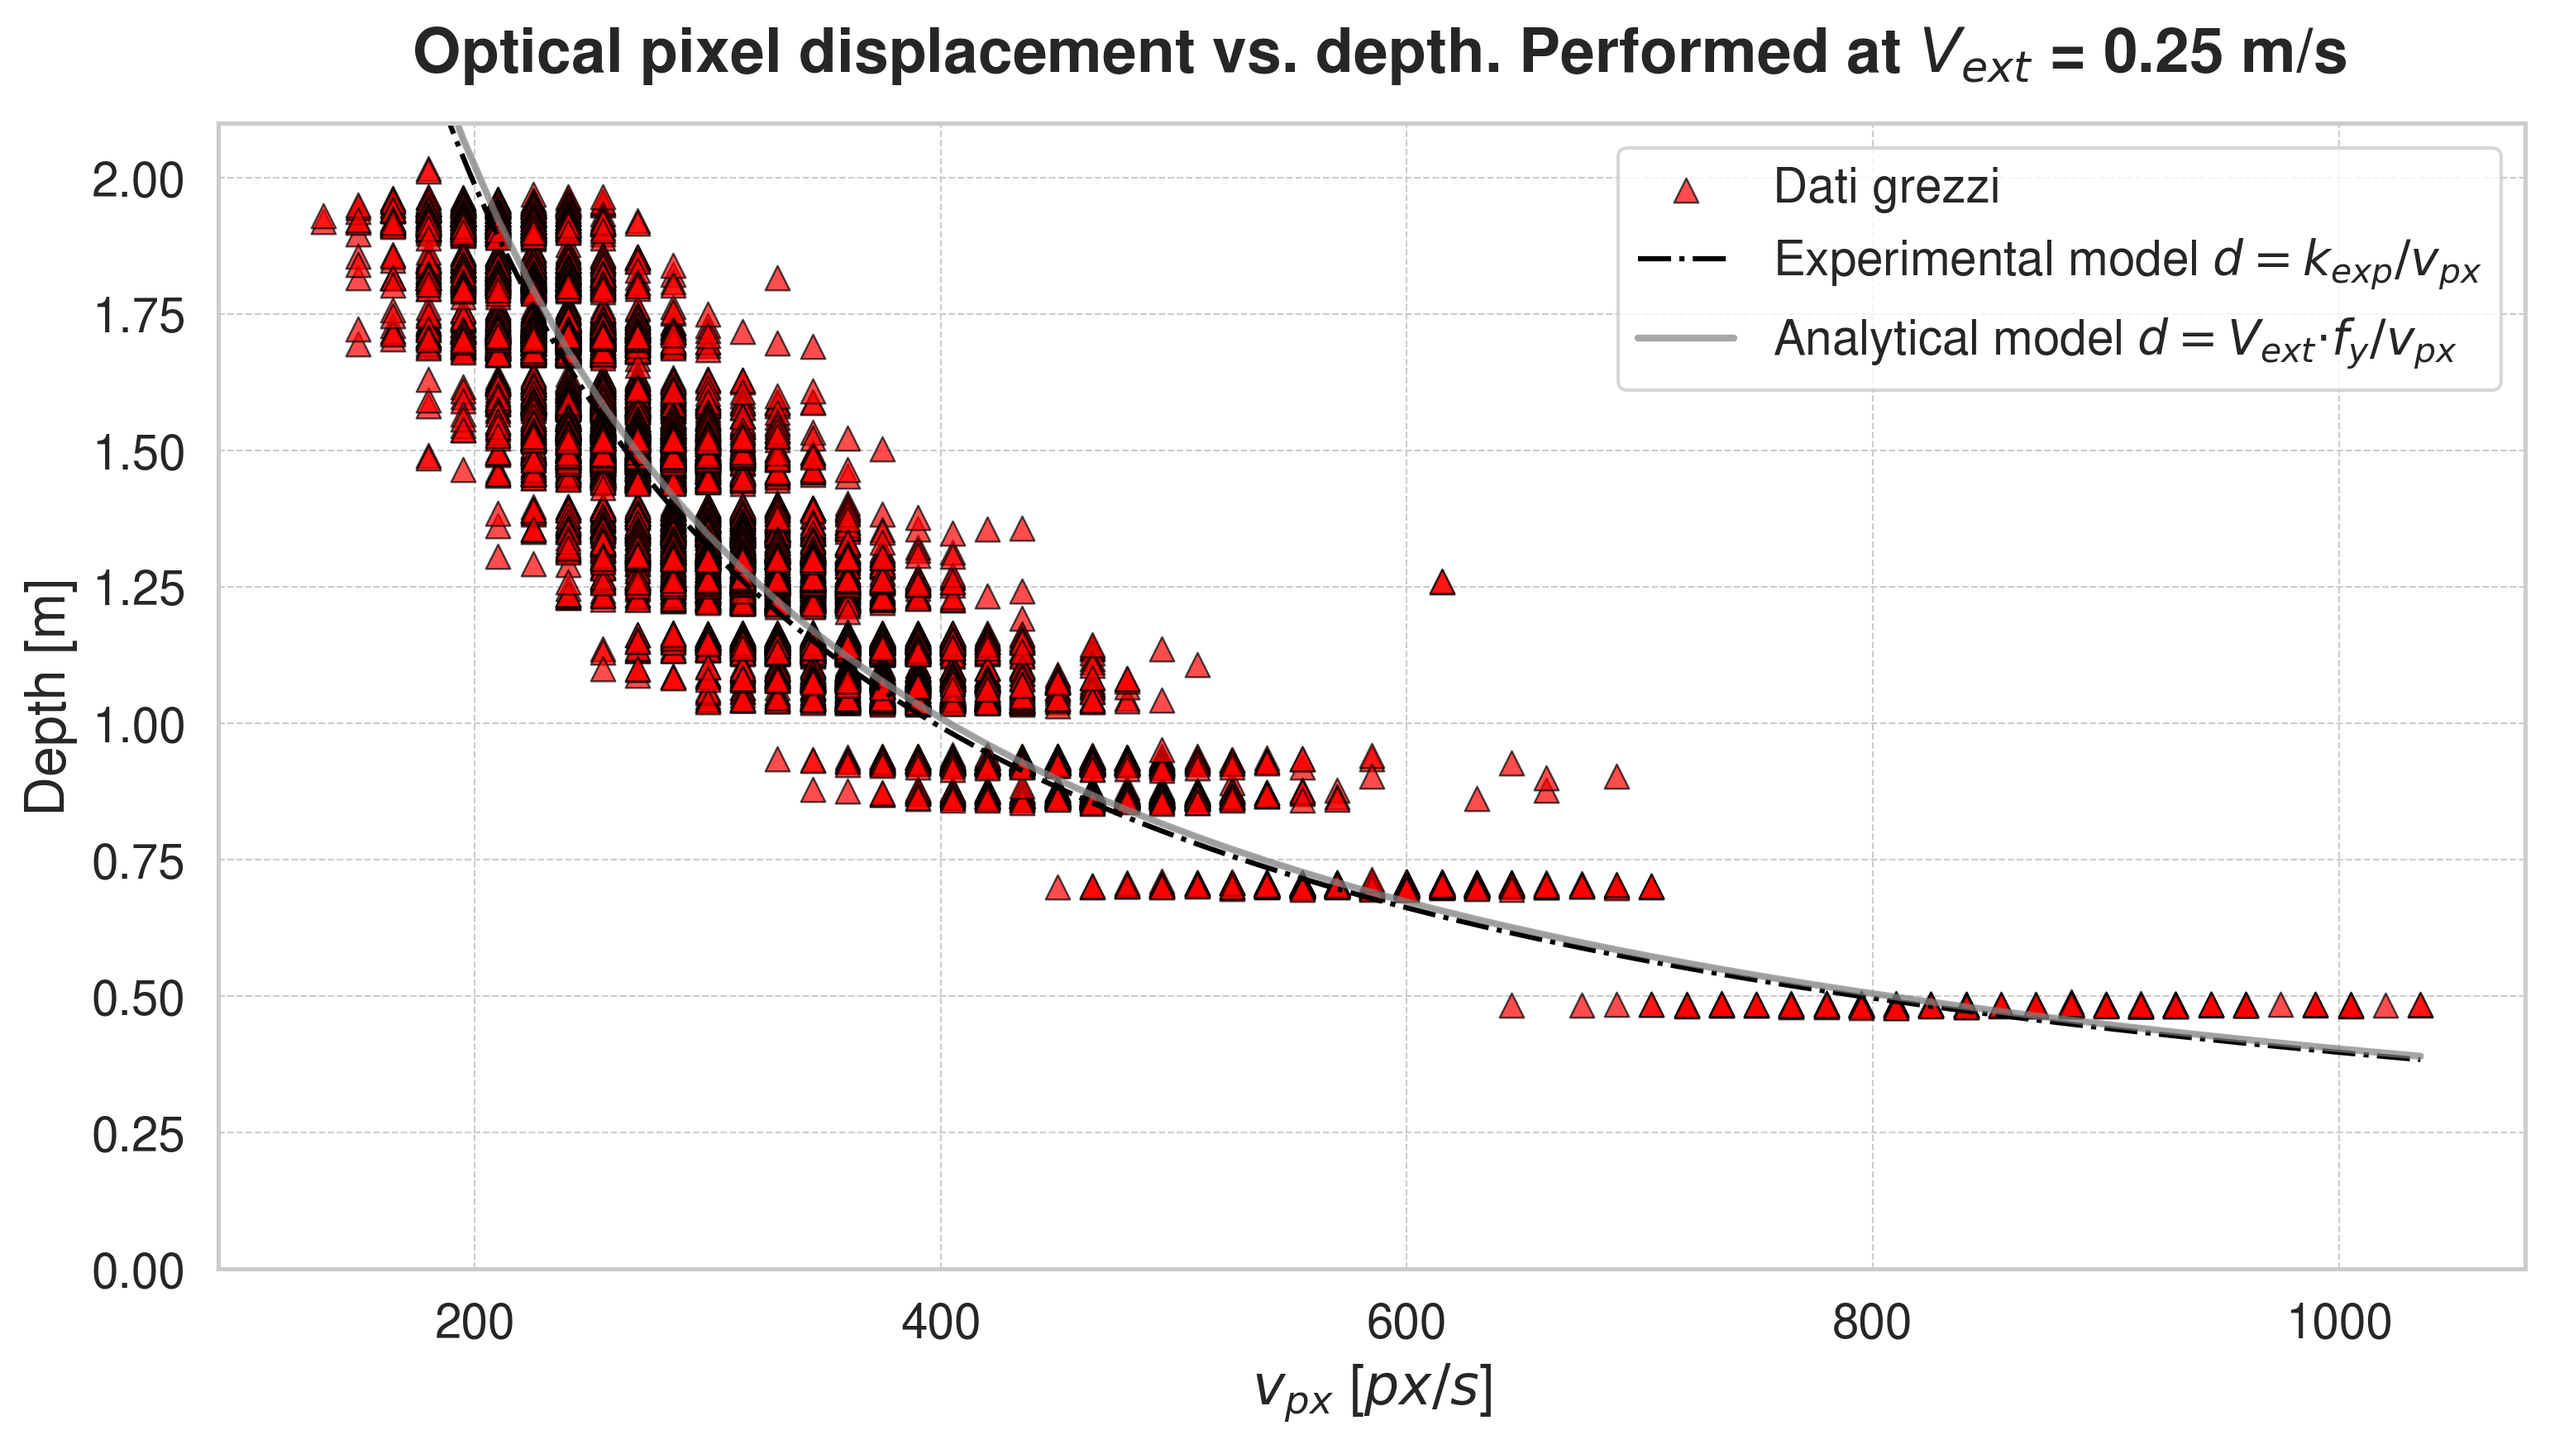
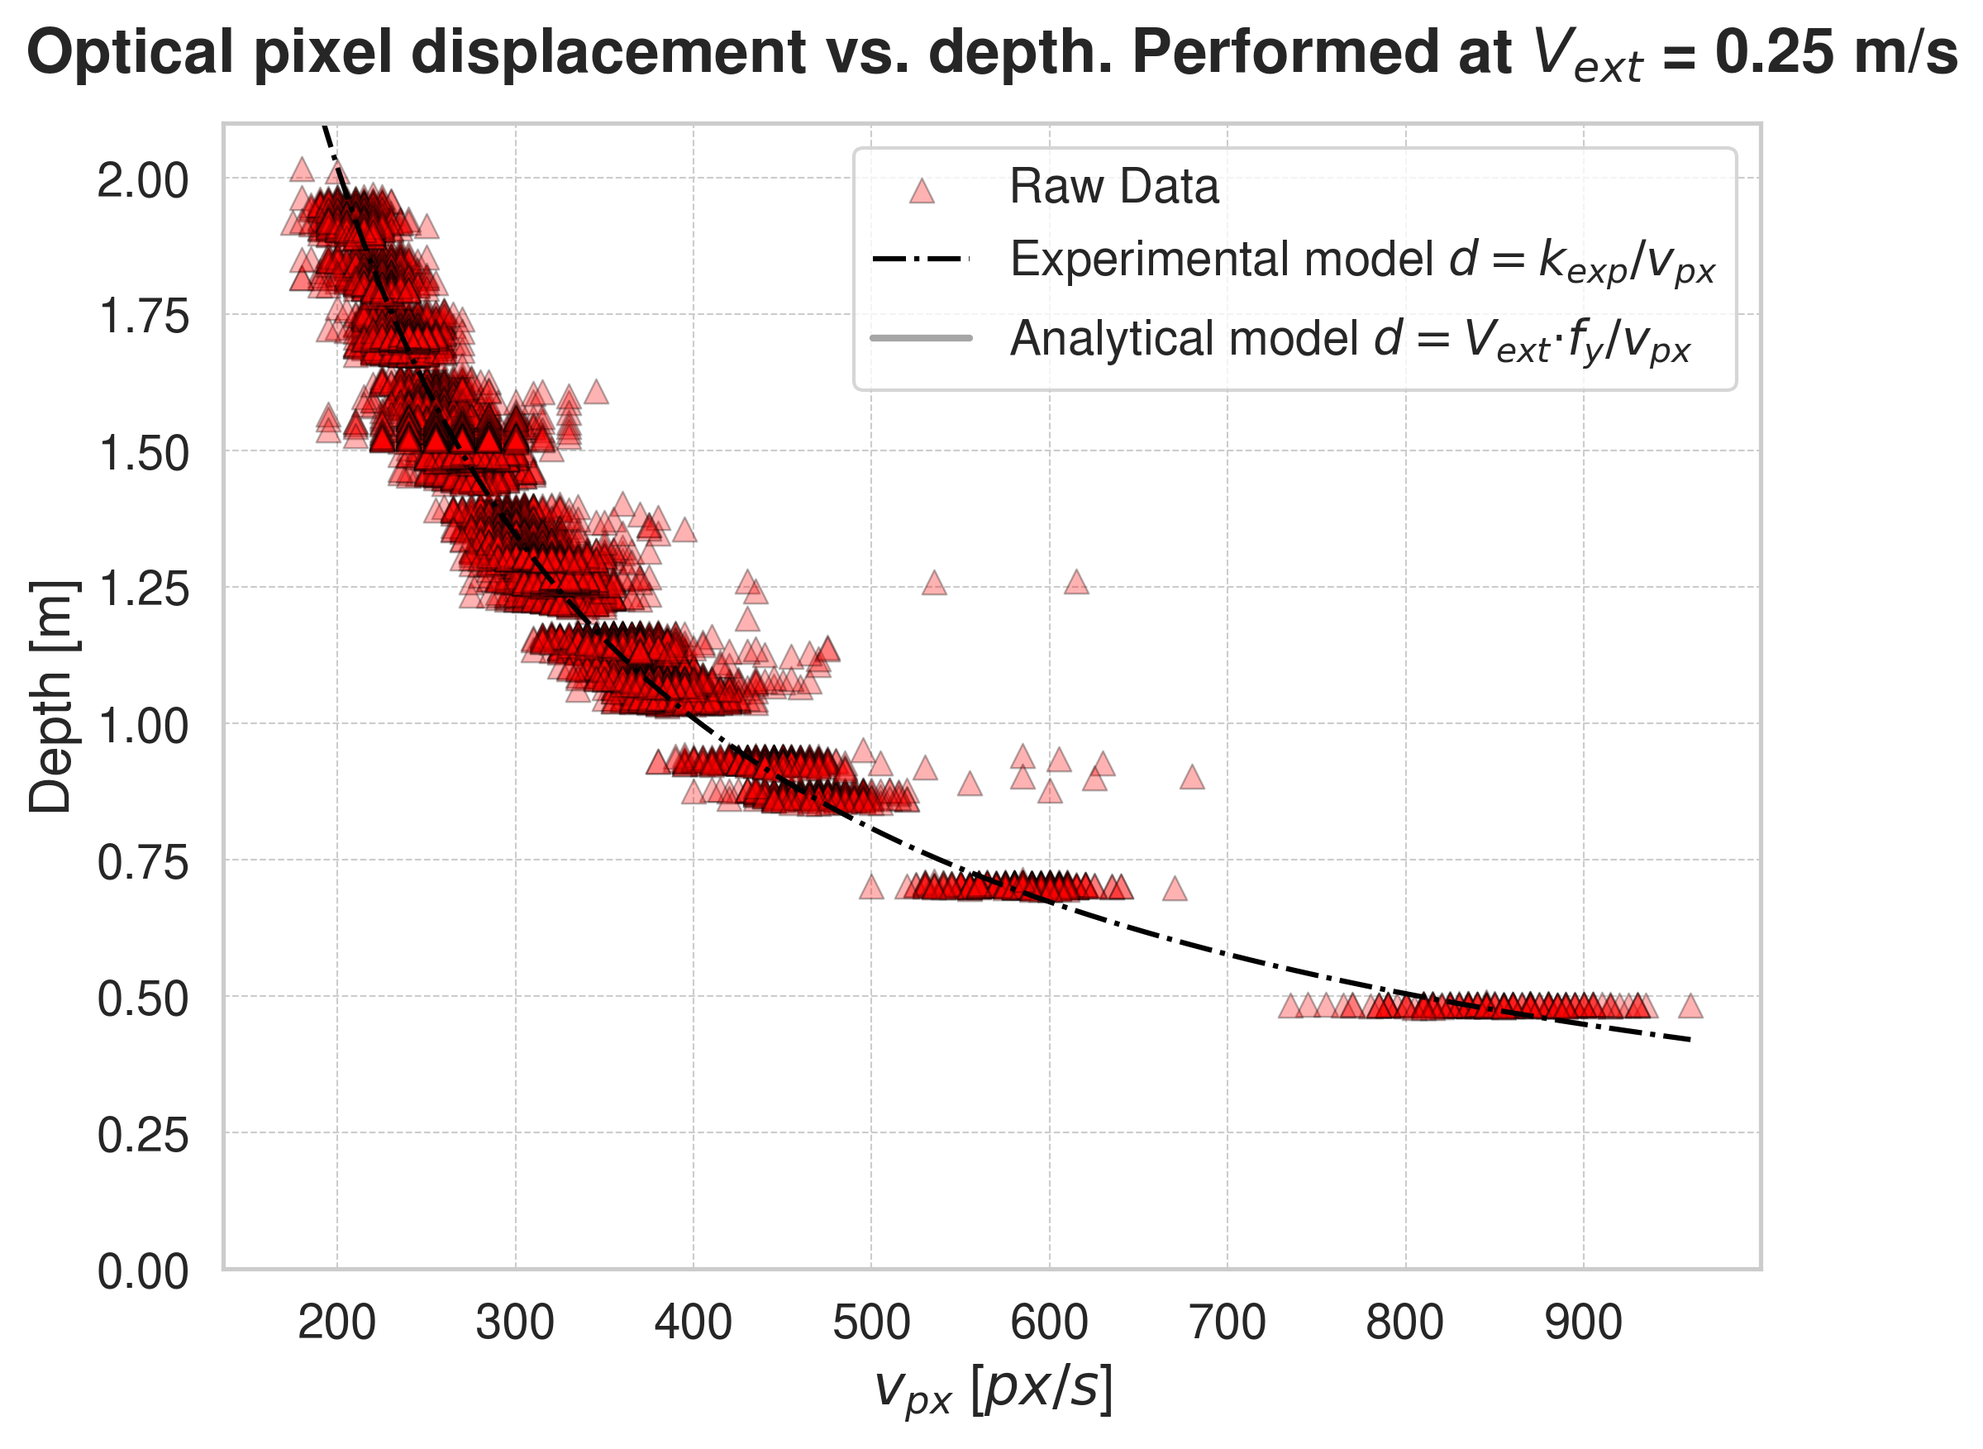
ACTUAL_LAST-ALL READY

diff --git a/multi_marker_optical_flow.py b/multi_marker_optical_flow.py
@@ -7,6 +7,59 @@ from sklearn.linear_model import LinearRegression
 import scipy.signal as signal
 from sklearn.cluster import KMeans
 
+DISCARD_HIGH_SPEED  = 0
+MAX_SPEED=0.70
+
+
+def bland_altman_plot(x, y, k, save_path, file_name="bland_altman_plot.png"):
+    """
+    Crea e salva un grafico Bland-Altman per valutare il fitting del modello y = k/x.
+
+    Parametri:
+    x (array): Valori osservati della variabile indipendente.
+    y (array): Valori osservati della variabile dipendente.
+    k (float): Parametro del modello y = k/x.
+    save_path (str): Cartella in cui salvare il grafico.
+    file_name (str): Nome del file per il grafico salvato (default: "bland_altman_plot.png").
+    """
+
+    # Calcolo delle previsioni
+    y_pred = k / x
+
+    # Calcolo delle differenze e delle medie
+    diff = y - y_pred
+    mean = (y + y_pred) / 2
+
+    # Calcolo della media e della deviazione standard delle differenze
+    mean_diff = np.mean(diff)
+    std_diff = np.std(diff, ddof=1)
+
+    # Limiti di accordo
+    lower_limit = mean_diff - 1.96 * std_diff
+    upper_limit = mean_diff + 1.96 * std_diff
+
+    # Creazione del grafico Bland-Altman
+    plt.figure(figsize=(10, 5))
+    plt.scatter(mean, diff, color='blue', s=50, label='Differenze')
+    plt.axhline(mean_diff, color='gray', linestyle='--', label='Media delle differenze')
+    plt.axhline(lower_limit, color='red', linestyle='--', label='Limite inferiore (95%)')
+    plt.axhline(upper_limit, color='red', linestyle='--', label='Limite superiore (95%)')
+    plt.xlabel('Media dei valori osservati e previsti')
+    plt.ylabel('Differenza tra valori osservati e previsti')
+    plt.title('Grafico Bland-Altman')
+    plt.legend()
+
+    plt.grid(True)
+    plt.show()
+
+    # Creazione della cartella se non esiste
+    if not os.path.exists(save_path):
+        os.makedirs(save_path)
+
+    # Salvataggio del grafico
+    save_file = os.path.join(save_path, file_name)
+    plt.savefig(save_file)
+    plt.close()
 
 def convert_robot_in_staircase_signal(noisy_signal):
 
@@ -52,8 +105,6 @@ def convert_robot_in_staircase_signal(noisy_signal):
 
 
 def filter_steady_state_speed(data_frame, vel_robot, window_size=13, slope_threshold=0.001, percentile_threshold=35, min_continuous_length=None):
-
-
     # Separate columns based on suffix '_vx' and '_z'
     velocity_columns = [col for col in data_frame.columns if '_vx' in col]
     depth_columns = [col for col in data_frame.columns if '_z' in col]
@@ -61,12 +112,6 @@ def filter_steady_state_speed(data_frame, vel_robot, window_size=13, slope_thres
     print("robot", len(vel_robot))
     print("dist", len(depth_columns))
     print("of", len(velocity_columns))
-
-
-    # plt.figure(figsize=(15, 6))
-    # plt.plot(vel_robot, linestyle='--')
-    # plt.grid(True)
-    # plt.show()
 
     # Flag condition: filter out short segments with constant values
     if min_continuous_length is not None:
@@ -92,16 +137,27 @@ def filter_steady_state_speed(data_frame, vel_robot, window_size=13, slope_thres
                 current_segment = [i]
 
         if len(current_segment) >= min_continuous_length:
-            constant_segments.extend(current_segment)
+            segment_length = len(current_segment)
+            lower_bound = int(np.percentile(range(segment_length), 5))
+            upper_bound = int(np.percentile(range(segment_length), 95))
+
+            for j in range(segment_length):
+                if j < lower_bound or j > upper_bound:
+                    vel_robot[current_segment[j]] = 0
+                else:
+                    constant_segments.append(current_segment[j])
 
         # Set short segments to zero
         for i in range(len(vel_robot)):
             if i not in constant_segments:
                 vel_robot[i] = 0
 
+    # New condition: filter out velocities above max_velocity
 
-
-
+    if DISCARD_HIGH_SPEED:
+        for i in range(len(vel_robot)):
+            if vel_robot[i] > MAX_SPEED:
+                vel_robot[i] = 0
 
     # Identify constant speed segments based on linear regression
     constant_speed_indices = []
@@ -113,8 +169,6 @@ def filter_steady_state_speed(data_frame, vel_robot, window_size=13, slope_thres
 
         if abs(slope) < slope_threshold:
             constant_speed_indices.extend(range(i, i + window_size))
-
-
 
     # Remove duplicates and sort indices
     constant_speed_indices = sorted(set(constant_speed_indices))
@@ -128,7 +182,7 @@ def filter_steady_state_speed(data_frame, vel_robot, window_size=13, slope_thres
     filtered_data_frame = data_frame.loc[filtered_indices].reset_index(drop=True)
     filtered_vel_robot = [vel_robot[i] for i in filtered_indices]
 
-    # #Plot before and after filtering
+    #Plot before and after filtering
     # plt.figure(figsize=(12, 6))
     #
     # plt.subplot(2, 1, 1)
@@ -304,9 +358,24 @@ def merge_dataset_extr_int(x, vy):
     all_4_robot_list = []
     all_4_robot_quantized = []
 
-
+    file = 0
     # Path to the CSV file
     for file_path in file_paths:
+        #2 buono
+        #1 cattivo
+        #3 medio
+        #4 medio buono
+
+        file += 1
+        SELECT_SINGLE_TEST = 1
+
+        #POSSIBILITÀ ANCHE DI IMPLEMENTARE UNA SOGLIA DI VELOCITÀ PER ESCLUDERE PROVE CATTIVE
+        if SELECT_SINGLE_TEST:
+            if file != 1:
+                continue
+            else:
+                print("file 1")
+
         # Load the CSV file
         df = pd.read_csv(file_path)
 
@@ -577,15 +646,16 @@ def merge_dataset_extr_int(x, vy):
 
 
     plt.figure(figsize=(10, 5))
-    lab1 ='instant'
-    lab2 ='instant + windowed'
-    lab3 ='quantized'
-    lab4 ='quantized + windowed'
+    lab1 ='instant vy'
+    lab2 ='instant vy + windowed OF'
+    lab3 ='quantized vy'
+    lab4 ='quantized vy + windowed OF'
+    size = 1
 
-    plt.scatter(all_z_4_MRU, all_dist_4_MRU, label= lab1, marker="v", alpha=0.3, s=3)
-    plt.scatter(all_z_4_MRU_w, all_dist_4_MRU_w, label= lab2, marker="x", alpha=0.3, s=3)
-    plt.scatter(all_z_4_MRU_quant, all_dist_4_MRU_quant, label= lab3, marker="s", alpha=0.3, s=3)
-    plt.scatter(all_z_4_MRU_quant_w, all_dist_4_MRU_quant_w, label= lab4, marker="o", alpha=0.3, s=3)
+    plt.scatter(all_z_4_MRU, all_dist_4_MRU, label= lab1, marker="v", alpha=0.3, s=size)
+    plt.scatter(all_z_4_MRU_w, all_dist_4_MRU_w, label= lab2, marker="x", alpha=0.3, s=size)
+    plt.scatter(all_z_4_MRU_quant, all_dist_4_MRU_quant, label= lab3, marker="s", alpha=0.3, s=size)
+    plt.scatter(all_z_4_MRU_quant_w, all_dist_4_MRU_quant_w, label= lab4, marker="o", alpha=0.3, s=size)
 
     # Plot relationships
 
@@ -674,7 +744,7 @@ def modello(x, costante):
     return costante / x
 
 
-def compute_dz(Vx, Vx_prime, fx, fy, cx, cy):
+def compute_dz(Vx, Vx_prime, fx):
     """
     Compute the change in depth (dz) based on optical flow.
 
@@ -801,15 +871,17 @@ def windowing_vs_uncertanty(file_path):
             plt.grid(True)
             plt.ylim(0, 2.1)
 
+
             # Additional plot
             Y_theoretical = []
             for i in range(len(Vx_prime_values)):
-                dzi = compute_dz(float(key), Vx_prime_values[i], fx, fy, cx, cy)
+                dzi = compute_dz(float(key), Vx_prime_values[i], fx)
                 Y_theoretical.append(dzi)
 
             plt.plot(Vx_prime_values, Y_theoretical, color="grey", label='Theoretical Model Dz = (V_r * fx)/OF')
 
             # Calculate systematic error
+
             residuals = (y - Y_theoretical) / y
             systematic_error = np.mean(residuals)
 
@@ -908,6 +980,7 @@ def show_result_ex_file(file_path):
     sub_dataframes = {key: groups.get_group(key) for key in groups.groups}
 
     for key, value in sub_dataframes.items():
+        print("VELOCITY : ", key)
         data = sub_dataframes[key]
 
         # Define colors for different values of 'vx_3D'
@@ -924,7 +997,7 @@ def show_result_ex_file(file_path):
         x = [element * 60 for element in x_fps]
         y = data['z_mean']
 
-        SMOOTHING = 0
+        SMOOTHING = 1
         window = 0
 
         if SMOOTHING:
@@ -948,11 +1021,15 @@ def show_result_ex_file(file_path):
 
         Vx_prime_values = sorted(x)
 
+
         # Fit the model to the data
         params, cov = curve_fit(modello, x, y)
 
+
+
         # Extract the estimated constant
         estimated_constant = params[0]
+        bland_altman_plot(x, y, estimated_constant, "results")
 
         # Calculate the uncertainty associated with the constant
         constant_uncertainty = np.sqrt(np.diag(cov))[0]
@@ -970,13 +1047,14 @@ def show_result_ex_file(file_path):
         # Save the data to the file
         save_to_file_OF_results("constant.txt", estimated_constant, constant_uncertainty, key)
 
-        # Create the plot
-        plt.figure(figsize=(12, 6))
+
+
+
 
         # Additional plot
         Y_theoretical = []
         for i in range(len(Vx_prime_values)):
-            dzi = compute_dz(float(key), Vx_prime_values[i], fx, fy, cx, cy)
+            dzi = compute_dz(float(key), Vx_prime_values[i], fx)
             Y_theoretical.append(dzi)
 
         # Calculate the minimum distance for each experimental point
@@ -999,11 +1077,14 @@ def show_result_ex_file(file_path):
         data['min_distance'] = min_distances
 
         # Display the results
-        print(data[['x', 'y', 'min_distance']])
+        #print(data[['x', 'y', 'min_distance']])
 
         # Calculate the mean absolute error (MAE)
         mae = np.mean(min_distances)
         print(f'Mean Absolute Error: {mae:.4f}')
+
+        # Create the plot
+        plt.figure(figsize=(8, 6))
 
         # Prepare the data
         data = pd.DataFrame({
@@ -1027,7 +1108,7 @@ def show_result_ex_file(file_path):
         })
 
         # Plot raw data points and the model
-        sns.scatterplot(x='x', y='y', data=data, label='Raw Data', color=color_p, s=50, alpha=0.7, marker="^",
+        sns.scatterplot(x='x', y='y', data=data, label='Raw Data', color=color_p, s=50, alpha=0.3, marker="^",
                         edgecolor="black")
         sns.lineplot(x='x_model', y='y_model', data=data, label=r'Experimental model $d = k_{{exp}}/v_{{px}}$',
                      color='black', linestyle='-.')
@@ -1910,8 +1991,11 @@ if EXPERIMENTAL_MODEL_FITTING:
     # Function to show results from the experimental file
     show_result_ex_file(file_path_1)
 
-    # Function to perform windowing analysis and calculate uncertainties
-    windowing_vs_uncertanty(file_path_1)
+    ANALYZE_WINDOW_UNCERTANTY = 0
+    if ANALYZE_WINDOW_UNCERTANTY:
+
+        # Function to perform windowing analysis and calculate uncertainties
+        windowing_vs_uncertanty(file_path_1)
 
 # Flag for evaluating experimental K constants from the model at different reference speeds
 EXP_Ks_RESULTS_EVALUATION = 0
